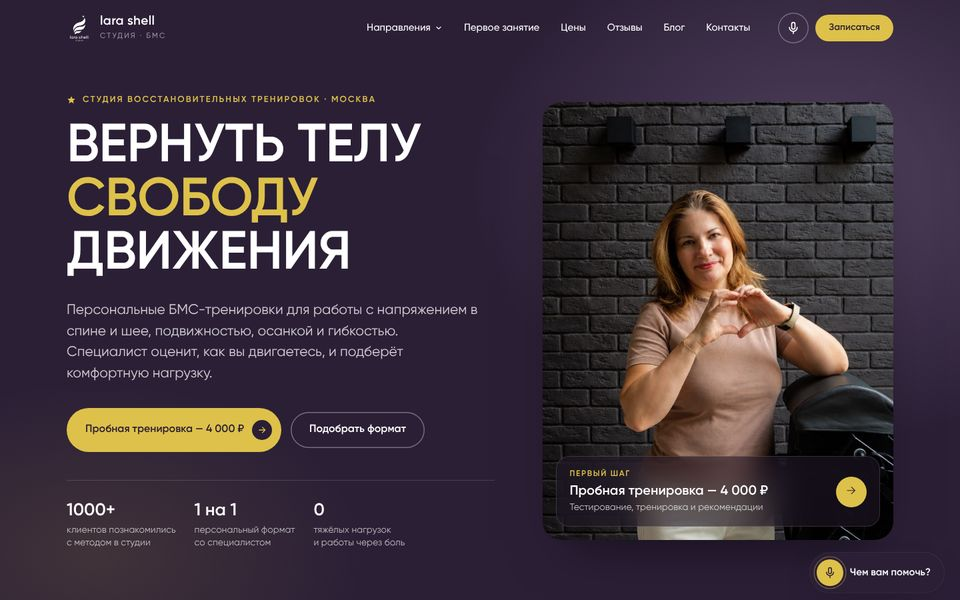
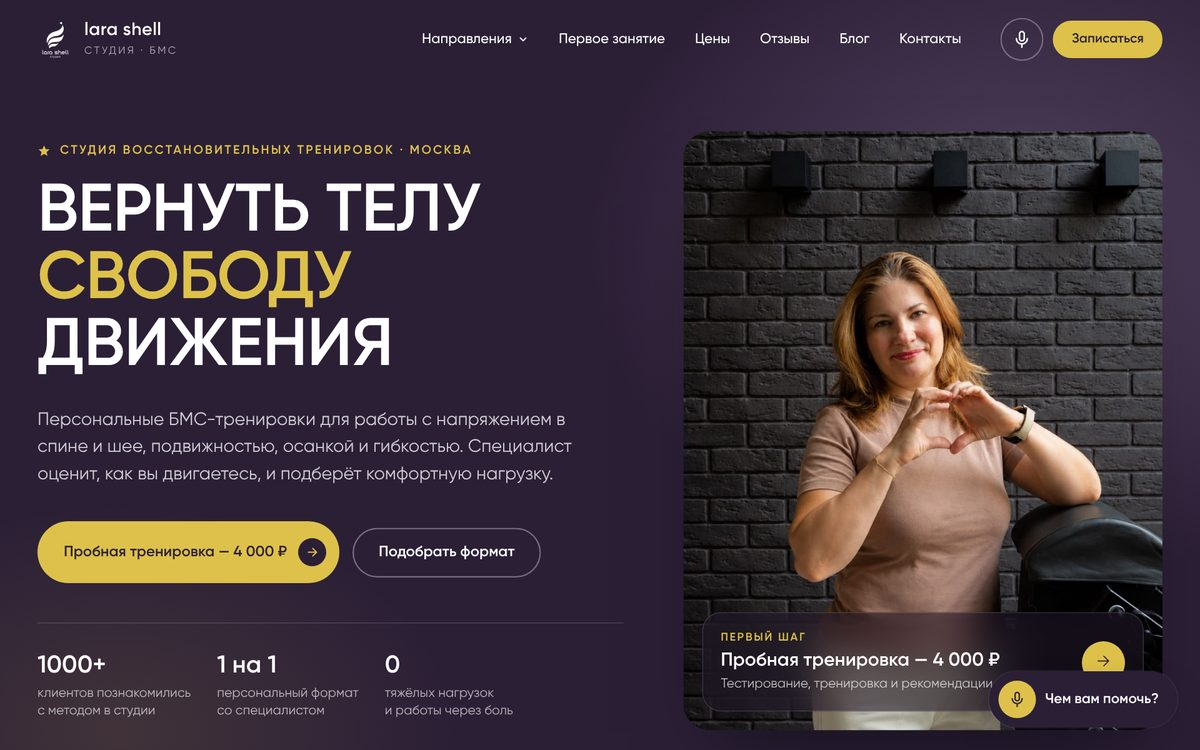
Портфолио: продающие кейсы Lara Shell и СКЭНАР-ГРАНД
Claude-Session: https://claude.ai/code/session_01WR5yuQg2ZJMuhEbUkvTby1

diff --git a/portfolio/index.html b/portfolio/index.html
@@ -281,6 +281,14 @@ dialog[open]{animation:winIn .28s cubic-bezier(.2,.8,.2,1)}
   .swatches{grid-template-columns:repeat(5,minmax(0,1fr));gap:6px}
 }
 
+.hero-shot{box-shadow:0 20px 50px rgb(0 0 0 / .12)}
+.sol.sol-wide{grid-template-columns:1fr;gap:16px}
+.sol.sol-wide .sol-text{max-width:640px}
+.sol.sol-wide .sol-text h3{font-size:clamp(24px,3vw,36px)!important}
+.kit-wideimg{grid-column:span 6}
+.kit-wideimg img{max-height:560px;object-fit:cover;object-position:top}
+@media (max-width:760px){.kit-wideimg{grid-column:auto}}
+
 /* услуги карточками */
 dialog.wide{width:min(1120px, calc(100vw - 32px))}
 .svc-head{display:grid;grid-template-columns:minmax(0,1fr) minmax(0,420px);gap:24px;align-items:end}
@@ -442,15 +450,15 @@ button.svc-card{font:inherit}
       </button>
       <button class="folder" type="button" data-open="c-baloven">
         <span class="f-art" aria-hidden="true"><span class="f-back"></span><span class="f-paper"></span><span class="f-paper p2"></span><span class="f-front"><span>/05</span><svg viewBox="0 0 14 14"><path d="M3 11L11 3M5 3h6v6"/></svg></span></span>
-        <span><span class="f-name">[05] Баловень</span><span class="f-tags" style="display:block">концепция · 10 страниц</span></span>
+        <span><span class="f-name">[05] Баловень</span><span class="f-tags" style="display:block">редизайн · 10 страниц</span></span>
       </button>
       <button class="folder" type="button" data-open="c-lara">
         <span class="f-art" aria-hidden="true"><span class="f-back"></span><span class="f-paper"></span><span class="f-paper p2"></span><span class="f-front"><span>/06</span><svg viewBox="0 0 14 14"><path d="M3 11L11 3M5 3h6v6"/></svg></span></span>
-        <span><span class="f-name">[06] Lara Shell</span><span class="f-tags" style="display:block">концепция · голосовой поиск</span></span>
+        <span><span class="f-name">[06] Lara Shell</span><span class="f-tags" style="display:block">редизайн · голосовой поиск</span></span>
       </button>
       <button class="folder" type="button" data-open="c-scenar">
         <span class="f-art" aria-hidden="true"><span class="f-back"></span><span class="f-paper"></span><span class="f-paper p2"></span><span class="f-front"><span>/07</span><svg viewBox="0 0 14 14"><path d="M3 11L11 3M5 3h6v6"/></svg></span></span>
-        <span><span class="f-name">[07] СКЭНАР-ГРАНД</span><span class="f-tags" style="display:block">концепция · 11 страниц</span></span>
+        <span><span class="f-name">[07] СКЭНАР-ГРАНД</span><span class="f-tags" style="display:block">редизайн · подбор лечения</span></span>
       </button>
       <button class="folder" type="button" data-open="c-brewns">
         <span class="f-art" aria-hidden="true"><span class="f-back"></span><span class="f-paper"></span><span class="f-paper p2"></span><span class="f-front"><span>/08</span><svg viewBox="0 0 14 14"><path d="M3 11L11 3M5 3h6v6"/></svg></span></span>
@@ -660,35 +668,109 @@ button.svc-card{font:inherit}
   </div>
 </dialog>
 
-<dialog id="c-lara" aria-labelledby="c-lara-t">
+<dialog id="c-lara" class="wide" aria-labelledby="c-lara-t">
   <div class="w-bar"><span class="up">/06 · Lara Shell</span><button class="w-close" type="button" aria-label="Закрыть"><svg viewBox="0 0 14 14"><path d="M3 3l8 8M11 3l-8 8"/></svg></button></div>
-  <div class="w-body">
-    <div class="meta"><span class="kind">концепция</span><span>2026</span><span>6 страниц</span><span>голосовой поиск</span></div>
-    <h2 id="c-lara-t">Студия БМС-тренировок Lara Shell</h2>
-    <div class="shot"><img src="img/lara.jpg" alt="Главная страница концепции сайта Lara Shell" loading="lazy"></div>
-    <p>Концепция редизайна сайта bms-health.ru для студии восстановительных тренировок в Москве.</p>
-    <ul>
-      <li>Шесть страниц: главная, массаж лица, детские занятия, обучение на аппаратах, магазин оборудования, блог</li>
-      <li>Навигатор «Чем вам помочь?» с голосовым поиском, его логику перенесла с текущего сайта</li>
-      <li>Сохранила фирменные цвета, шрифт Gilroy, фото, тексты и цены</li>
-    </ul>
+  <div class="w-body anim">
+    <div class="meta"><span class="kind">редизайн</span><span>студия БМС-тренировок · Москва</span><span>работаем сейчас</span></div>
+    <h2 id="c-lara-t">Сайт, который сам спрашивает: «Чем вам помочь?»</h2>
+    <div class="shot hero-shot"><img src="img/lara.jpg" alt="Главная страница сайта Lara Shell" loading="lazy"></div>
+    <div class="pain">
+      <p>В студии шесть направлений: тренировки, массаж лица, детские занятия, коучинг, обучение и магазин. А человек приходит не за «БМС», а с больной спиной.</p>
+      <p>Чтобы он не ушёл, сайт должен понять его с полуслова.</p>
+    </div>
+    <div class="sol sol-wide">
+      <div class="sol-text"><span class="case-n">01</span><h3>Голосовой поиск: сказал «болит спина», получил ответ</h3><p>Кнопка «Чем вам помочь?» есть на каждой странице. Человек говорит или пишет своими словами, и сайт сразу показывает подходящую услугу, страницу и статью. Это главная идея сайта.</p></div>
+      <div class="shot"><img src="img/lara/voice.jpg" alt="Голосовой поиск «Чем вам помочь?» с ответом на запрос «болит спина»" loading="lazy"></div>
+    </div>
+    <div class="sol flip">
+      <div class="sol-text"><span class="case-n">02</span><h3>Навигатор по запросу вместо меню из терминов</h3><p>На главной список живых запросов: «Беспокоит спина, шея или суставы», «Нужны занятия для ребёнка». Нажал свой и увидел направление, первый шаг и стоимость.</p></div>
+      <div class="shot"><img src="img/lara/navigator.jpg" alt="Навигатор «С каким запросом вы пришли?»" loading="lazy"></div>
+    </div>
+
+    <div class="site-show">
+      <div class="show-head"><div><span class="case-n">Весь сайт</span><h3>6 страниц, каждая со своей задачей</h3></div><p>Переключайте страницы и листайте внутри окна.</p></div>
+      <div class="pg-tabs" role="tablist"><button type="button" class="pg-tab on" data-src="img/lara/full-index.jpg" data-url="bms-health.ru/">Главная</button><button type="button" class="pg-tab" data-src="img/lara/full-massage.jpg" data-url="bms-health.ru/massage">Массаж лица</button><button type="button" class="pg-tab" data-src="img/lara/full-children.jpg" data-url="bms-health.ru/children">Детские занятия</button><button type="button" class="pg-tab" data-src="img/lara/full-obuchenie.jpg" data-url="bms-health.ru/obuchenie">Обучение</button><button type="button" class="pg-tab" data-src="img/lara/full-shop.jpg" data-url="bms-health.ru/shop">Магазин</button><button type="button" class="pg-tab" data-src="img/lara/full-blog.jpg" data-url="bms-health.ru/blog">Блог</button></div>
+      <div class="browser">
+        <div class="browser-bar"><i></i><i></i><i></i><span class="browser-url">bms-health.ru/</span></div>
+        <div class="browser-view" tabindex="0" aria-label="Страница сайта, можно листать"><img src="img/lara/full-index.jpg" alt="Страница сайта целиком" loading="lazy"></div>
+      </div>
+    </div>
+
+    <div class="mob-show">
+      <div class="show-head"><div><span class="case-n">Мобильная версия</span><h3>Удобно с телефона, откуда приходит большинство клиентов</h3></div><p>Каждую страницу я рисую отдельно под экран телефона.</p></div>
+      <div class="phones"><figure class="phone"><div class="phone-screen"><img src="img/lara/mob-index.jpg" alt="Главная на телефоне" loading="lazy" style="animation-delay:-0s"></div><figcaption>Главная</figcaption></figure><figure class="phone"><div class="phone-screen"><img src="img/lara/mob-massage.jpg" alt="Массаж лица на телефоне" loading="lazy" style="animation-delay:-6s"></div><figcaption>Массаж лица</figcaption></figure><figure class="phone"><div class="phone-screen"><img src="img/lara/mob-shop.jpg" alt="Магазин на телефоне" loading="lazy" style="animation-delay:-12s"></div><figcaption>Магазин</figcaption></figure></div>
+    </div>
+
+    <div class="kit">
+      <div class="show-head"><div><span class="case-n">UI-кит</span><h3>Дизайн-система, чтобы сайт рос без хаоса</h3></div><p>Цвета, шрифты и готовые блоки. Новую услугу или страницу можно собрать быстро, и всё будет в одном стиле.</p></div>
+      <div class="kit-grid">
+        <div class="kit-card kit-colors"><span class="up">Цвета бренда</span><div class="swatches"><div><span style="background:#3F325E"></span><b>Слива</b><small>#3F325E</small></div><div><span style="background:#2B1F36"></span><b>Ночь</b><small>#2B1F36</small></div><div><span style="background:#DEC14A"></span><b>Золото</b><small>#DEC14A</small></div><div><span style="background:#9F85AD"></span><b>Лаванда</b><small>#9F85AD</small></div><div><span style="background:#EFEDF3"></span><b>Туман</b><small>#EFEDF3</small></div></div></div>
+        <div class="kit-card kit-type"><span class="up">Шрифт</span><div class="type-big" style="font-family:Gilroy, sans-serif;color:#3F325E;text-transform:none;font-weight:700">Lara Shell</div><small>Gilroy: заголовки и текст</small></div>
+        <div class="kit-card kit-wideimg"><span class="up">Карточки цен</span><img src="img/lara/prices.jpg" alt="Карточки цен" loading="lazy"></div>
+      </div>
+    </div>
+
+    <div class="proof"><div class="proof-num"><b>2</b><span>недели</span></div><div class="proof-num"><b>70&nbsp;000&nbsp;₽</b><span>стоимость редизайна</span></div><div class="proof-num"><b>внедрено</b><span>клиент запустил сайт</span></div><p>Фирменные цвета, шрифт Gilroy, фото, тексты и цены студии я сохранила. Клиент одобрил концепцию и внедрил её.</p></div>
+
+    <div class="gift">
+      <div><div class="up">Подарок</div><h3>Пришлите ссылку на ваш сайт</h3><p>Бесплатно покажу 3 места, где вы теряете клиентов.</p></div>
+      <a class="btn js-write" href="https://t.me/oksergeevadesign" target="_blank" rel="noopener">Прислать ссылку ↗</a>
+    </div>
   </div>
 </dialog>
 
-<dialog id="c-scenar" aria-labelledby="c-scenar-t">
+<dialog id="c-scenar" class="wide" aria-labelledby="c-scenar-t">
   <div class="w-bar"><span class="up">/07 · СКЭНАР-ГРАНД</span><button class="w-close" type="button" aria-label="Закрыть"><svg viewBox="0 0 14 14"><path d="M3 3l8 8M11 3l-8 8"/></svg></button></div>
-  <div class="w-body">
-    <div class="meta"><span class="kind">концепция</span><span>2026</span><span>11 страниц</span><span>навигатор по симптомам</span></div>
-    <h2 id="c-scenar-t">Центр СКЭНАР-терапии доктора Никитина</h2>
-    <div class="shot"><img src="img/scenar.jpg" alt="Главная страница концепции сайта СКЭНАР-ГРАНД" loading="lazy"></div>
-    <p>У центра в Калининграде четыре направления: лечение, диагностика, школа и магазин. Задача была в том, чтобы пациент быстро понял, с чего начать, и дошёл до записи.</p>
-    <ul>
-      <li>«Путь пациента»: консультация, диагностика, курс лечения, поддержка дома</li>
-      <li>Навигатор по симптомам: схема тела с точками, по клику открываются подходящие услуги</li>
-      <li>Голосовой поиск по услугам, симптомам, товарам и статьям</li>
-      <li>Отдельные страницы школы и магазина с фильтрами</li>
-      <li>Официальный прайс с кодами медицинских услуг сохранён</li>
-    </ul>
+  <div class="w-body anim">
+    <div class="meta"><span class="kind">редизайн</span><span>центр СКЭНАР-терапии · Калининград</span><span>работаем сейчас</span></div>
+    <h2 id="c-scenar-t">Сайт, который сам подбирает лечение под симптом</h2>
+    <div class="shot hero-shot"><img src="img/scenar.jpg" alt="Главная страница сайта СКЭНАР-ГРАНД" loading="lazy"></div>
+    <div class="pain">
+      <p>У центра четыре направления: лечение, диагностика, школа и магазин аппаратов. Пациент приходит с болью, а не с названием метода.</p>
+      <p>Раньше ему приходилось самому разбираться, что такое СКЭНАР и что ему подойдёт.</p>
+    </div>
+    <div class="sol sol-wide">
+      <div class="sol-text"><span class="case-n">01</span><h3>Подбор решения: показал, где болит, получил лечение</h3><p>Схема тела с точками. Нажал туда, где беспокоит, и сразу видно систему организма, заболевания и процедуры, которые помогут.</p></div>
+      <div class="shot"><img src="img/scenar/navigator.jpg" alt="Навигатор по симптомам: схема тела и подходящие процедуры" loading="lazy"></div>
+    </div>
+    <div class="sol flip">
+      <div class="sol-text"><span class="case-n">02</span><h3>Голосовой поиск своими словами</h3><p>Можно сказать или написать «болит спина». Сайт покажет услугу с ценой, систему организма и статью о проблеме.</p></div>
+      <div class="shot"><img src="img/scenar/voice.jpg" alt="Голосовой поиск с ответом на запрос «болит спина»" loading="lazy"></div>
+    </div>
+    <div class="sol">
+      <div class="sol-text"><span class="case-n">03</span><h3>Понятный путь пациента</h3><p>Консультация, диагностика, курс лечения и поддержка дома. Человек видит, с чего начать и что будет дальше.</p></div>
+      <div class="shot"><img src="img/scenar/route.jpg" alt="Путь пациента из четырёх шагов" loading="lazy"></div>
+    </div>
+
+    <div class="site-show">
+      <div class="show-head"><div><span class="case-n">Весь сайт</span><h3>9 страниц, каждая со своей задачей</h3></div><p>Переключайте страницы и листайте внутри окна.</p></div>
+      <div class="pg-tabs" role="tablist"><button type="button" class="pg-tab on" data-src="img/scenar/full-index.jpg" data-url="scenar-dok-s.ru/">Главная</button><button type="button" class="pg-tab" data-src="img/scenar/full-uslugi.jpg" data-url="scenar-dok-s.ru/uslugi">Лечение</button><button type="button" class="pg-tab" data-src="img/scenar/full-shkola.jpg" data-url="scenar-dok-s.ru/shkola">Школа</button><button type="button" class="pg-tab" data-src="img/scenar/full-magazin.jpg" data-url="scenar-dok-s.ru/magazin">Магазин</button><button type="button" class="pg-tab" data-src="img/scenar/full-o-nas.jpg" data-url="scenar-dok-s.ru/o-nas">О центре</button><button type="button" class="pg-tab" data-src="img/scenar/full-otzyvy.jpg" data-url="scenar-dok-s.ru/otzyvy">Отзывы</button><button type="button" class="pg-tab" data-src="img/scenar/full-prajs-list.jpg" data-url="scenar-dok-s.ru/prajs-list">Прайс-лист</button><button type="button" class="pg-tab" data-src="img/scenar/full-stati.jpg" data-url="scenar-dok-s.ru/stati">Статьи</button><button type="button" class="pg-tab" data-src="img/scenar/full-kontakty.jpg" data-url="scenar-dok-s.ru/kontakty">Контакты</button></div>
+      <div class="browser">
+        <div class="browser-bar"><i></i><i></i><i></i><span class="browser-url">scenar-dok-s.ru/</span></div>
+        <div class="browser-view" tabindex="0" aria-label="Страница сайта, можно листать"><img src="img/scenar/full-index.jpg" alt="Страница сайта целиком" loading="lazy"></div>
+      </div>
+    </div>
+
+    <div class="mob-show">
+      <div class="show-head"><div><span class="case-n">Мобильная версия</span><h3>Удобно с телефона, откуда приходит большинство клиентов</h3></div><p>Каждую страницу я рисую отдельно под экран телефона.</p></div>
+      <div class="phones"><figure class="phone"><div class="phone-screen"><img src="img/scenar/mob-index.jpg" alt="Главная на телефоне" loading="lazy" style="animation-delay:-0s"></div><figcaption>Главная</figcaption></figure><figure class="phone"><div class="phone-screen"><img src="img/scenar/mob-uslugi.jpg" alt="Лечение на телефоне" loading="lazy" style="animation-delay:-6s"></div><figcaption>Лечение</figcaption></figure><figure class="phone"><div class="phone-screen"><img src="img/scenar/mob-magazin.jpg" alt="Магазин на телефоне" loading="lazy" style="animation-delay:-12s"></div><figcaption>Магазин</figcaption></figure></div>
+    </div>
+
+    <div class="kit">
+      <div class="show-head"><div><span class="case-n">UI-кит</span><h3>Дизайн-система, чтобы сайт рос без хаоса</h3></div><p>Цвета, шрифты и готовые блоки. Новую услугу или страницу можно собрать быстро, и всё будет в одном стиле.</p></div>
+      <div class="kit-grid">
+        <div class="kit-card kit-colors"><span class="up">Цвета бренда</span><div class="swatches"><div><span style="background:#00A3D3"></span><b>Лазурь</b><small>#00A3D3</small></div><div><span style="background:#073B52"></span><b>Глубина</b><small>#073B52</small></div><div><span style="background:#EBF9FF"></span><b>Небо</b><small>#EBF9FF</small></div><div><span style="background:#6EBE4D"></span><b>Зелень</b><small>#6EBE4D</small></div><div><span style="background:#FF8562"></span><b>Коралл</b><small>#FF8562</small></div></div></div>
+        <div class="kit-card kit-type"><span class="up">Шрифт</span><div class="type-big" style="font-family:"Proxima Nova", "Helvetica Neue", Arial, sans-serif;color:#073B52;text-transform:none;font-weight:700">СКЭНАР-ГРАНД</div><small>Proxima Nova: заголовки и текст</small></div>
+        <div class="kit-card kit-wideimg"><span class="up">Популярные услуги с ценами</span><img src="img/scenar/prices.jpg" alt="Популярные услуги с ценами" loading="lazy"></div>
+      </div>
+    </div>
+
+    <div class="proof"><div class="proof-num"><b>4</b><span>недели</span></div><div class="proof-num"><b>60&nbsp;000&nbsp;₽</b><span>стоимость редизайна</span></div><div class="proof-num"><b>внедряют</b><span>клиент принял концепцию</span></div><p>Официальный прайс с кодами медицинских услуг, цвета, шрифт и фото центра я сохранила. Клиент принял концепцию и сейчас внедряет её.</p></div>
+
+    <div class="gift">
+      <div><div class="up">Подарок</div><h3>Пришлите ссылку на ваш сайт</h3><p>Бесплатно покажу 3 места, где вы теряете клиентов.</p></div>
+      <a class="btn js-write" href="https://t.me/oksergeevadesign" target="_blank" rel="noopener">Прислать ссылку ↗</a>
+    </div>
   </div>
 </dialog>
 

diff --git a/portfolio/content.md b/portfolio/content.md
@@ -84,3 +84,7 @@
 - Подарок в кейсах (Оксана согласовала): «Пришлите ссылку на ваш сайт — бесплатно покажу 3 места, где вы теряете клиентов»
 - Структура продающего кейса: результат + «было/стало» → проблема словами владельца → 3 решения с пользой для бизнеса → цифры (срок, цена, сколько вместе) → подарок
 - Нужно для «было/стало»: скриншот старого сайта cafe-baloven.com; фото кафе (экспорт пинов из Figma)
+
+## Уточнения по Lara Shell и СКЭНАР-ГРАНД (16.10)
+- Lara Shell (Москва): 2 недели, 70 000 ₽, концепцию одобрили и внедрили, работаем сейчас. Главное в кейсе — голосовой поиск «Чем вам помочь?»
+- СКЭНАР-ГРАНД (Калининград): 4 недели, 60 000 ₽, концепцию приняли и внедряют, работаем сейчас. Главное — подбор решения по симптому и голосовой поиск
